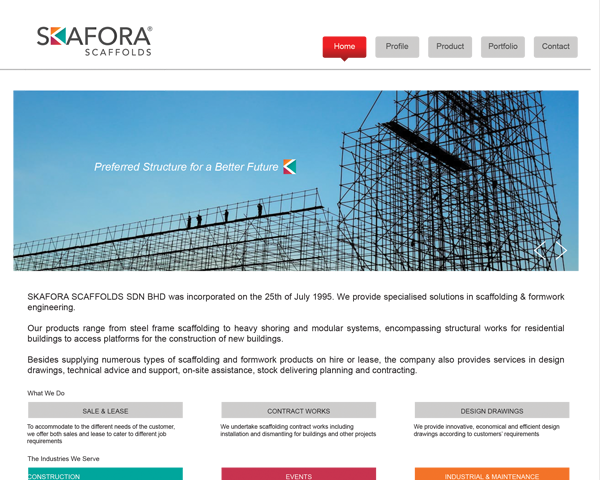
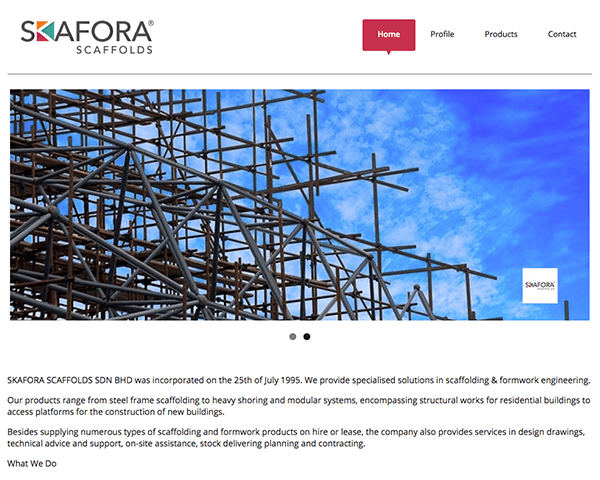
no message

diff --git a/style.css b/style.css
@@ -3,5 +3,5 @@ Theme Name: Skafora
 Theme URI: https://github.com/jrajalu/skafora.git
 Author: Jamaludin Rajalu
 Author URI: https://github.com/jrajalu
-Version: 1.0.0
-*/@font-face{font-family:'Open Sans';font-style:normal;font-weight:300;src:local("Open Sans Light"),local("OpenSans-Light"),url(http://fonts.gstatic.com/s/opensans/v10/DXI1ORHCpsQm3Vp6mXoaTXhCUOGz7vYGh680lGh-uXM.woff) format("woff")}@font-face{font-family:'Open Sans';font-style:normal;font-weight:400;src:local("Open Sans"),local("OpenSans"),url(http://fonts.gstatic.com/s/opensans/v10/cJZKeOuBrn4kERxqtaUH3T8E0i7KZn-EPnyo3HZu7kw.woff) format("woff")}@font-face{font-family:'Open Sans';font-style:normal;font-weight:600;src:local("Open Sans Semibold"),local("OpenSans-Semibold"),url(http://fonts.gstatic.com/s/opensans/v10/MTP_ySUJH_bn48VBG8sNSnhCUOGz7vYGh680lGh-uXM.woff) format("woff")}@font-face{font-family:'Open Sans';font-style:normal;font-weight:700;src:local("Open Sans Bold"),local("OpenSans-Bold"),url(http://fonts.gstatic.com/s/opensans/v10/k3k702ZOKiLJc3WVjuplzHhCUOGz7vYGh680lGh-uXM.woff) format("woff")}@font-face{font-family:'Open Sans';font-style:italic;font-weight:300;src:local("Open Sans Light Italic"),local("OpenSansLight-Italic"),url(http://fonts.gstatic.com/s/opensans/v10/PRmiXeptR36kaC0GEAetxh_xHqYgAV9Bl_ZQbYUxnQU.woff) format("woff")}@font-face{font-family:'Open Sans';font-style:italic;font-weight:400;src:local("Open Sans Italic"),local("OpenSans-Italic"),url(http://fonts.gstatic.com/s/opensans/v10/xjAJXh38I15wypJXxuGMBobN6UDyHWBl620a-IRfuBk.woff) format("woff")}@font-face{font-family:'Open Sans';font-style:italic;font-weight:600;src:local("Open Sans Semibold Italic"),local("OpenSans-SemiboldItalic"),url(http://fonts.gstatic.com/s/opensans/v10/PRmiXeptR36kaC0GEAetxn5HxGBcBvicCpTp6spHfNo.woff) format("woff")}@font-face{font-family:'Open Sans';font-style:italic;font-weight:700;src:local("Open Sans Bold Italic"),local("OpenSans-BoldItalic"),url(http://fonts.gstatic.com/s/opensans/v10/PRmiXeptR36kaC0GEAetxjqR_3kx9_hJXbbyU8S6IN0.woff) format("woff")}/*! normalize.css v3.0.2 | MIT License | git.io/normalize */html{font-family:sans-serif;-ms-text-size-adjust:100%;-webkit-text-size-adjust:100%}body{margin:0}article,aside,details,figcaption,figure,footer,header,hgroup,main,menu,nav,section,summary{display:block}audio,canvas,progress,video{display:inline-block;vertical-align:baseline}audio:not([controls]){display:none;height:0}[hidden],template{display:none}a{background-color:transparent}a:active,a:hover{outline:0}abbr[title]{border-bottom:1px dotted}b,strong{font-weight:bold}dfn{font-style:italic}h1{font-size:2em;margin:0.67em 0}mark{background:#ff0;color:#000}small{font-size:80%}sub,sup{font-size:75%;line-height:0;position:relative;vertical-align:baseline}sup{top:-0.5em}sub{bottom:-0.25em}img{border:0}svg:not(:root){overflow:hidden}figure{margin:1em 40px}hr{-moz-box-sizing:content-box;box-sizing:content-box;height:0}pre{overflow:auto}code,kbd,pre,samp{font-family:monospace, monospace;font-size:1em}button,input,optgroup,select,textarea{color:inherit;font:inherit;margin:0}button{overflow:visible}button,select{text-transform:none}button,html input[type="button"],input[type="reset"],input[type="submit"]{-webkit-appearance:button;cursor:pointer}button[disabled],html input[disabled]{cursor:default}button::-moz-focus-inner,input::-moz-focus-inner{border:0;padding:0}input{line-height:normal}input[type="checkbox"],input[type="radio"]{box-sizing:border-box;padding:0}input[type="number"]::-webkit-inner-spin-button,input[type="number"]::-webkit-outer-spin-button{height:auto}input[type="search"]{-webkit-appearance:textfield;-moz-box-sizing:content-box;-webkit-box-sizing:content-box;box-sizing:content-box}input[type="search"]::-webkit-search-cancel-button,input[type="search"]::-webkit-search-decoration{-webkit-appearance:none}fieldset{border:1px solid #c0c0c0;margin:0 2px;padding:0.35em 0.625em 0.75em}legend{border:0;padding:0}textarea{overflow:auto}optgroup{font-weight:bold}table{border-collapse:collapse;border-spacing:0}td,th{padding:0}.section{clear:both;padding:0px;margin:0px}.col{display:block;float:left;margin:1% 0 1% 3%}.col:first-child{margin-left:0}.group:before,.group:after{content:"";display:table}.group:after{clear:both}.group{zoom:1}.span_6_of_6{width:100%}.span_5_of_6{width:82.83%}.span_4_of_6{width:65.66%}.span_3_of_6{width:48.5%}.span_2_of_6{width:31.33%}.span_1_of_6{width:14.16%}@media only screen and (max-width: 680px){.col{margin:1% 0 1% 0%}.span_1_of_6,.span_2_of_6,.span_3_of_6,.span_4_of_6,.span_5_of_6,.span_6_of_6{width:100%}}#cssmenu,#cssmenu ul,#cssmenu ul li,#cssmenu ul li a,#cssmenu #menu-button{margin:0;padding:0;border:0;list-style:none;line-height:1;display:block;position:relative;-webkit-box-sizing:border-box;-moz-box-sizing:border-box;box-sizing:border-box}#cssmenu:after,#cssmenu>ul:after{content:".";display:block;clear:both;visibility:hidden;line-height:0;height:0}#cssmenu #menu-button{display:none}#cssmenu{width:auto;background:transparent}#cssmenu>ul{margin-top:24px}#cssmenu.align-right>ul>li{float:right}#cssmenu>ul>li{float:right;display:inline-block}#cssmenu.align-center>ul{float:none;text-align:center}#cssmenu.align-center>ul>li{float:none}#cssmenu.align-center ul ul{text-align:left}#cssmenu>ul>li>a{padding:18px 25px 21px 25px;text-decoration:none;font-size:13px;color:#000}#cssmenu>ul>li:hover>a,#cssmenu>ul>li>a:hover,#cssmenu>ul>li.active>a{color:#ffffff;background:#C7324F;border-radius:3px}#cssmenu>ul>li.active::after{content:'▼';color:#C7324F;text-align:center;display:block;margin:auto;margin-top:-5px}#cssmenu>ul>li.has-sub>a{padding-right:45px}#cssmenu>ul>li.has-sub>a::after{content:"";position:absolute;width:0;height:0;border:6px solid transparent;border-top-color:#d3eced;right:17px;top:22px}#cssmenu>ul>li.has-sub.active>a::after,#cssmenu>ul>li.has-sub:hover>a{border-top-color:#ffffff}#cssmenu ul ul{position:absolute;left:-9999px;top:60px;padding-top:6px;font-size:13px;opacity:0;-webkit-transition:top 0.2s ease, opacity 0.2s ease-in;-moz-transition:top 0.2s ease, opacity 0.2s ease-in;-ms-transition:top 0.2s ease, opacity 0.2s ease-in;-o-transition:top 0.2s ease, opacity 0.2s ease-in;transition:top 0.2s ease, opacity 0.2s ease-in}#cssmenu.align-right ul ul{text-align:right}#cssmenu>ul>li>ul::after{content:"";position:absolute;width:0;height:0;border:5px solid transparent;border-bottom-color:#ffffff;top:-4px;left:20px}#cssmenu.align-right>ul>li>ul::after{left:auto;right:20px}#cssmenu ul ul ul::after{content:"";position:absolute;width:0;height:0;border:5px solid transparent;border-right-color:#ffffff;top:11px;left:-4px}#cssmenu.align-right ul ul ul::after{border-right-color:transparent;border-left-color:#ffffff;left:auto;right:-4px}#cssmenu>ul>li>ul{top:120px}#cssmenu>ul>li:hover>ul{top:52px;left:0;opacity:1}#cssmenu.align-right>ul>li:hover>ul{left:auto;right:0}#cssmenu ul ul ul{padding-top:0;padding-left:6px}#cssmenu.align-right ul ul ul{padding-right:6px}#cssmenu ul ul>li:hover>ul{left:180px;top:0;opacity:1}#cssmenu.align-right ul ul>li:hover>ul{left:auto;right:100%;opacity:1}#cssmenu ul ul li a{text-decoration:none;font-weight:400;padding:11px 25px;width:180px;color:#777777;background:#ffffff;box-shadow:0 2px 2px rgba(0,0,0,0.1),1px 1px 1px rgba(0,0,0,0.1),-1px 1px 1px rgba(0,0,0,0.1)}#cssmenu ul ul li:hover>a,#cssmenu ul ul li.active>a{color:#333333}#cssmenu ul ul li:first-child>a{border-top-left-radius:3px;border-top-right-radius:3px}#cssmenu ul ul li:last-child>a{border-bottom-left-radius:3px;border-bottom-right-radius:3px}#cssmenu>ul>li>ul::after{position:absolute;display:block}#cssmenu ul ul li.has-sub>a::after{content:"";position:absolute;width:0;height:0;border:4px solid transparent;border-left-color:#777777;right:17px;top:14px}#cssmenu.align-right ul ul li.has-sub>a::after{border-left-color:transparent;border-right-color:#777777;right:auto;left:17px}#cssmenu ul ul li.has-sub.active>a::after,#cssmenu ul ul li.has-sub:hover>a::after{border-left-color:#333333}#cssmenu.align-right ul ul li.has-sub.active>a::after,#cssmenu.align-right ul ul li.has-sub:hover>a::after{border-right-color:#333333;border-left-color:transparent}@media all and (max-width: 800px), only screen and (-webkit-min-device-pixel-ratio: 2) and (max-width: 1024px), only screen and (min--moz-device-pixel-ratio: 2) and (max-width: 1024px), only screen and (-o-min-device-pixel-ratio: 2 / 1) and (max-width: 1024px), only screen and (min-device-pixel-ratio: 2) and (max-width: 1024px), only screen and (min-resolution: 192dpi) and (max-width: 1024px), only screen and (min-resolution: 2dppx) and (max-width: 1024px){#cssmenu{background:#C7324F}#cssmenu>ul{display:none}#cssmenu>ul.open{display:block;border-top:1px solid rgba(0,0,0,0.1)}#cssmenu.align-right>ul{float:none}#cssmenu.align-center>ul{text-align:left}#cssmenu>ul>li,#cssmenu.align-right>ul>li{float:none;display:block}#cssmenu>ul>li>a{padding:18px 25px 18px 25px;border-right:0;color:#fff}#cssmenu>ul>li:hover>a,#cssmenu>ul>li.active>a{background:rgba(0,0,0,0.1)}#cssmenu>ul>li.active::after{content:""}#cssmenu #menu-button{display:block;text-decoration:none;font-size:13px;font-weight:700;color:#d3eced;padding:18px 25px 18px 25px;text-transform:uppercase;letter-spacing:1px;cursor:pointer}#cssmenu ul ul,#cssmenu ul li:hover>ul,#cssmenu>ul>li>ul,#cssmenu ul ul ul,#cssmenu ul ul li:hover>ul,#cssmenu.align-right ul ul,#cssmenu.align-right ul li:hover>ul,#cssmenu.align-right>ul>li>ul,#cssmenu.align-right ul ul ul,#cssmenu.align-right ul ul li:hover>ul{left:0;right:auto;top:auto;opacity:1;width:100%;padding:0;position:relative;text-align:left}#cssmenu ul ul li{width:100%}#cssmenu ul ul li a{width:100%;box-shadow:none;padding-left:35px}#cssmenu ul ul ul li a{padding-left:45px}#cssmenu ul ul li:first-child>a,#cssmenu ul ul li:last-child>a{border-radius:0}#cssmenu #menu-button::before,#cssmenu #menu-button::after{box-sizing:content-box}#cssmenu #menu-button::after{display:block;content:'';position:absolute;height:3px;width:22px;border-top:2px solid #d3eced;border-bottom:2px solid #d3eced;right:25px;top:18px}#cssmenu #menu-button::before{display:block;content:'';position:absolute;height:3px;width:22px;border-top:2px solid #d3eced;right:25px;top:28px}#cssmenu>ul>li.has-sub>a::after,#cssmenu ul ul li.has-sub>a::after{display:none}}.alignnone{margin:5px 20px 20px 0}.aligncenter,div.aligncenter{display:block;margin:5px auto 5px auto}.alignright{float:right;margin:5px 0 20px 20px}.alignleft{float:left;margin:5px 20px 20px 0}a img.alignright{float:right;margin:5px 0 20px 20px}a img.alignnone{margin:5px 20px 20px 0}a img.alignleft{float:left;margin:5px 20px 20px 0}a img.aligncenter{display:block;margin-left:auto;margin-right:auto}.wp-caption{background:#fff;max-width:96%;padding:5px 3px 10px;text-align:center}.wp-caption.alignnone{margin:5px 20px 20px 0}.wp-caption.alignleft{margin:5px 20px 20px 0}.wp-caption.alignright{margin:5px 0 20px 20px}.wp-caption img{border:0 none;height:auto;margin:0;max-width:98.5%;padding:0;width:auto}.wp-caption p.wp-caption-text{font-size:11px;line-height:17px;margin:0;padding:0 4px 5px}.screen-reader-text{clip:rect(1px, 1px, 1px, 1px);position:absolute !important;height:1px;width:1px;overflow:hidden}.screen-reader-text:hover,.screen-reader-text:active,.screen-reader-text:focus{background-color:#f1f1f1;border-radius:3px;box-shadow:0 0 2px 2px rgba(0,0,0,0.6);clip:auto !important;color:#21759b;display:block;font-size:14px;font-size:0.875rem;font-weight:bold;height:auto;left:5px;line-height:normal;padding:15px 23px 14px;text-decoration:none;top:5px;width:auto;z-index:100000}html{box-sizing:border-box}*,*:before,*:after{box-sizing:inherit}body{font-family:'Open Sans', sans-serif;font-size:14px;color:#121212}h1,h2,h3,h4,h5,h6{font-weight:400}.wrapper{max-width:960px;margin:0 auto}.header{border-bottom:2px solid #B2B2B2;margin-bottom:20px}.article_header img,.article img{max-width:100%;height:auto;display:block}.widget_page .menu .menu-item a,.widget_page .menu .menu-item a:visited{text-decoration:none;color:#00A59B}.widget_page .menu .menu-item a:hover{color:#C7324F}.widget_page_child li a,.widget_page_child li a:visited{text-decoration:none;color:#00A59B}.widget_page_child li a:hover{color:#C7324F}.widget_second_row li h2,.widget_third_row li h2{font-size:14px;text-transform:uppercase}.widget_first_row li h2{display:none}.widget_second_row li h2{padding:5px 10px;font-weight:normal;color:#000;background:#CCCCCB;text-align:center}.widget_third_row li h2{padding:5px 10px;font-weight:normal;color:#fff;text-align:center}.widget_third_row li:nth-child(1) h2{background:#00A59B}.widget_third_row li:nth-child(2) h2{background:#C7324F}.widget_third_row li:nth-child(3) h2{background:#F37328}.widget_footer li h2{display:none}.footer{background:#E5E5E5;margin-top:50px}.footer_logo img{display:block;margin:10px auto}.footer_content{padding:10px;font-size:11px}@media only screen and (max-width: 680px){body{padding:0 10px 5px}iframe{width:100%}img{height:auto}}
+Version: 1.0.1
+*/@font-face{font-family:'Open Sans';font-style:normal;font-weight:300;src:local("Open Sans Light"),local("OpenSans-Light"),url(http://fonts.gstatic.com/s/opensans/v10/DXI1ORHCpsQm3Vp6mXoaTXhCUOGz7vYGh680lGh-uXM.woff) format("woff")}@font-face{font-family:'Open Sans';font-style:normal;font-weight:400;src:local("Open Sans"),local("OpenSans"),url(http://fonts.gstatic.com/s/opensans/v10/cJZKeOuBrn4kERxqtaUH3T8E0i7KZn-EPnyo3HZu7kw.woff) format("woff")}@font-face{font-family:'Open Sans';font-style:normal;font-weight:600;src:local("Open Sans Semibold"),local("OpenSans-Semibold"),url(http://fonts.gstatic.com/s/opensans/v10/MTP_ySUJH_bn48VBG8sNSnhCUOGz7vYGh680lGh-uXM.woff) format("woff")}@font-face{font-family:'Open Sans';font-style:normal;font-weight:700;src:local("Open Sans Bold"),local("OpenSans-Bold"),url(http://fonts.gstatic.com/s/opensans/v10/k3k702ZOKiLJc3WVjuplzHhCUOGz7vYGh680lGh-uXM.woff) format("woff")}@font-face{font-family:'Open Sans';font-style:italic;font-weight:300;src:local("Open Sans Light Italic"),local("OpenSansLight-Italic"),url(http://fonts.gstatic.com/s/opensans/v10/PRmiXeptR36kaC0GEAetxh_xHqYgAV9Bl_ZQbYUxnQU.woff) format("woff")}@font-face{font-family:'Open Sans';font-style:italic;font-weight:400;src:local("Open Sans Italic"),local("OpenSans-Italic"),url(http://fonts.gstatic.com/s/opensans/v10/xjAJXh38I15wypJXxuGMBobN6UDyHWBl620a-IRfuBk.woff) format("woff")}@font-face{font-family:'Open Sans';font-style:italic;font-weight:600;src:local("Open Sans Semibold Italic"),local("OpenSans-SemiboldItalic"),url(http://fonts.gstatic.com/s/opensans/v10/PRmiXeptR36kaC0GEAetxn5HxGBcBvicCpTp6spHfNo.woff) format("woff")}@font-face{font-family:'Open Sans';font-style:italic;font-weight:700;src:local("Open Sans Bold Italic"),local("OpenSans-BoldItalic"),url(http://fonts.gstatic.com/s/opensans/v10/PRmiXeptR36kaC0GEAetxjqR_3kx9_hJXbbyU8S6IN0.woff) format("woff")}/*! normalize.css v3.0.2 | MIT License | git.io/normalize */html{font-family:sans-serif;-ms-text-size-adjust:100%;-webkit-text-size-adjust:100%}body{margin:0}article,aside,details,figcaption,figure,footer,header,hgroup,main,menu,nav,section,summary{display:block}audio,canvas,progress,video{display:inline-block;vertical-align:baseline}audio:not([controls]){display:none;height:0}[hidden],template{display:none}a{background-color:transparent}a:active,a:hover{outline:0}abbr[title]{border-bottom:1px dotted}b,strong{font-weight:bold}dfn{font-style:italic}h1{font-size:2em;margin:0.67em 0}mark{background:#ff0;color:#000}small{font-size:80%}sub,sup{font-size:75%;line-height:0;position:relative;vertical-align:baseline}sup{top:-0.5em}sub{bottom:-0.25em}img{border:0}svg:not(:root){overflow:hidden}figure{margin:1em 40px}hr{-moz-box-sizing:content-box;box-sizing:content-box;height:0}pre{overflow:auto}code,kbd,pre,samp{font-family:monospace, monospace;font-size:1em}button,input,optgroup,select,textarea{color:inherit;font:inherit;margin:0}button{overflow:visible}button,select{text-transform:none}button,html input[type="button"],input[type="reset"],input[type="submit"]{-webkit-appearance:button;cursor:pointer}button[disabled],html input[disabled]{cursor:default}button::-moz-focus-inner,input::-moz-focus-inner{border:0;padding:0}input{line-height:normal}input[type="checkbox"],input[type="radio"]{box-sizing:border-box;padding:0}input[type="number"]::-webkit-inner-spin-button,input[type="number"]::-webkit-outer-spin-button{height:auto}input[type="search"]{-webkit-appearance:textfield;-moz-box-sizing:content-box;-webkit-box-sizing:content-box;box-sizing:content-box}input[type="search"]::-webkit-search-cancel-button,input[type="search"]::-webkit-search-decoration{-webkit-appearance:none}fieldset{border:1px solid #c0c0c0;margin:0 2px;padding:0.35em 0.625em 0.75em}legend{border:0;padding:0}textarea{overflow:auto}optgroup{font-weight:bold}table{border-collapse:collapse;border-spacing:0}td,th{padding:0}.section{clear:both;padding:0px;margin:0px}.col{display:block;float:left;margin:1% 0 1% 3%}.col:first-child{margin-left:0}.group:before,.group:after{content:"";display:table}.group:after{clear:both}.group{zoom:1}.span_6_of_6{width:100%}.span_5_of_6{width:82.83%}.span_4_of_6{width:65.66%}.span_3_of_6{width:48.5%}.span_2_of_6{width:31.33%}.span_1_of_6{width:14.16%}@media only screen and (max-width: 680px){.col{margin:1% 0 1% 0%}.span_1_of_6,.span_2_of_6,.span_3_of_6,.span_4_of_6,.span_5_of_6,.span_6_of_6{width:100%}}#cssmenu,#cssmenu ul,#cssmenu ul li,#cssmenu ul li a,#cssmenu #menu-button{margin:0;padding:0;border:0;list-style:none;line-height:1;display:block;position:relative;-webkit-box-sizing:border-box;-moz-box-sizing:border-box;box-sizing:border-box}#cssmenu ul{float:right}#cssmenu:after,#cssmenu>ul:after{content:".";display:block;clear:both;visibility:hidden;line-height:0;height:0}#cssmenu #menu-button{display:none}#cssmenu{width:auto;background:transparent}#cssmenu>ul{margin-top:24px}#cssmenu.align-right>ul>li{float:right}#cssmenu>ul>li{float:left;display:inline-block}#cssmenu.align-center>ul{float:none;text-align:center}#cssmenu.align-center>ul>li{float:none}#cssmenu.align-center ul ul{text-align:left}#cssmenu>ul>li>a{padding:18px 25px 21px 25px;text-decoration:none;font-size:13px;color:#000}#cssmenu>ul>li:hover>a,#cssmenu>ul>li>a:hover,#cssmenu>ul>li.active>a{color:#ffffff;background:#C7324F;border-radius:3px}#cssmenu>ul>li.active::after{content:'▼';color:#C7324F;text-align:center;display:block;margin:auto;margin-top:-5px}#cssmenu>ul>li.has-sub>a{padding-right:45px}#cssmenu>ul>li.has-sub>a::after{content:"";position:absolute;width:0;height:0;border:6px solid transparent;border-top-color:#d3eced;right:17px;top:22px}#cssmenu>ul>li.has-sub.active>a::after,#cssmenu>ul>li.has-sub:hover>a{border-top-color:#ffffff}#cssmenu ul ul{position:absolute;left:-9999px;top:60px;padding-top:6px;font-size:13px;opacity:0;-webkit-transition:top 0.2s ease, opacity 0.2s ease-in;-moz-transition:top 0.2s ease, opacity 0.2s ease-in;-ms-transition:top 0.2s ease, opacity 0.2s ease-in;-o-transition:top 0.2s ease, opacity 0.2s ease-in;transition:top 0.2s ease, opacity 0.2s ease-in}#cssmenu.align-right ul ul{text-align:right}#cssmenu>ul>li>ul::after{content:"";position:absolute;width:0;height:0;border:5px solid transparent;border-bottom-color:#ffffff;top:-4px;left:20px}#cssmenu.align-right>ul>li>ul::after{left:auto;right:20px}#cssmenu ul ul ul::after{content:"";position:absolute;width:0;height:0;border:5px solid transparent;border-right-color:#ffffff;top:11px;left:-4px}#cssmenu.align-right ul ul ul::after{border-right-color:transparent;border-left-color:#ffffff;left:auto;right:-4px}#cssmenu>ul>li>ul{top:120px}#cssmenu>ul>li:hover>ul{top:52px;left:0;opacity:1}#cssmenu.align-right>ul>li:hover>ul{left:auto;right:0}#cssmenu ul ul ul{padding-top:0;padding-left:6px}#cssmenu.align-right ul ul ul{padding-right:6px}#cssmenu ul ul>li:hover>ul{left:180px;top:0;opacity:1}#cssmenu.align-right ul ul>li:hover>ul{left:auto;right:100%;opacity:1}#cssmenu ul ul li a{text-decoration:none;font-weight:400;padding:11px 25px;width:180px;color:#777777;background:#ffffff;box-shadow:0 2px 2px rgba(0,0,0,0.1),1px 1px 1px rgba(0,0,0,0.1),-1px 1px 1px rgba(0,0,0,0.1)}#cssmenu ul ul li:hover>a,#cssmenu ul ul li.active>a{color:#333333}#cssmenu ul ul li:first-child>a{border-top-left-radius:3px;border-top-right-radius:3px}#cssmenu ul ul li:last-child>a{border-bottom-left-radius:3px;border-bottom-right-radius:3px}#cssmenu>ul>li>ul::after{position:absolute;display:block}#cssmenu ul ul li.has-sub>a::after{content:"";position:absolute;width:0;height:0;border:4px solid transparent;border-left-color:#777777;right:17px;top:14px}#cssmenu.align-right ul ul li.has-sub>a::after{border-left-color:transparent;border-right-color:#777777;right:auto;left:17px}#cssmenu ul ul li.has-sub.active>a::after,#cssmenu ul ul li.has-sub:hover>a::after{border-left-color:#333333}#cssmenu.align-right ul ul li.has-sub.active>a::after,#cssmenu.align-right ul ul li.has-sub:hover>a::after{border-right-color:#333333;border-left-color:transparent}@media all and (max-width: 800px), only screen and (-webkit-min-device-pixel-ratio: 2) and (max-width: 1024px), only screen and (min--moz-device-pixel-ratio: 2) and (max-width: 1024px), only screen and (-o-min-device-pixel-ratio: 2 / 1) and (max-width: 1024px), only screen and (min-device-pixel-ratio: 2) and (max-width: 1024px), only screen and (min-resolution: 192dpi) and (max-width: 1024px), only screen and (min-resolution: 2dppx) and (max-width: 1024px){#cssmenu{background:#C7324F}#cssmenu ul{float:none}#cssmenu>ul{display:none}#cssmenu>ul.open{display:block;border-top:1px solid rgba(0,0,0,0.1)}#cssmenu.align-right>ul{float:none}#cssmenu.align-center>ul{text-align:left}#cssmenu>ul>li,#cssmenu.align-right>ul>li{float:none;display:block}#cssmenu>ul>li>a{padding:18px 25px 18px 25px;border-right:0;color:#fff}#cssmenu>ul>li:hover>a,#cssmenu>ul>li.active>a{background:rgba(0,0,0,0.1)}#cssmenu>ul>li.active::after{content:""}#cssmenu #menu-button{display:block;text-decoration:none;font-size:13px;font-weight:700;color:#d3eced;padding:18px 25px 18px 25px;text-transform:uppercase;letter-spacing:1px;cursor:pointer}#cssmenu ul ul,#cssmenu ul li:hover>ul,#cssmenu>ul>li>ul,#cssmenu ul ul ul,#cssmenu ul ul li:hover>ul,#cssmenu.align-right ul ul,#cssmenu.align-right ul li:hover>ul,#cssmenu.align-right>ul>li>ul,#cssmenu.align-right ul ul ul,#cssmenu.align-right ul ul li:hover>ul{left:0;right:auto;top:auto;opacity:1;width:100%;padding:0;position:relative;text-align:left}#cssmenu ul ul li{width:100%}#cssmenu ul ul li a{width:100%;box-shadow:none;padding-left:35px}#cssmenu ul ul ul li a{padding-left:45px}#cssmenu ul ul li:first-child>a,#cssmenu ul ul li:last-child>a{border-radius:0}#cssmenu #menu-button::before,#cssmenu #menu-button::after{box-sizing:content-box}#cssmenu #menu-button::after{display:block;content:'';position:absolute;height:3px;width:22px;border-top:2px solid #d3eced;border-bottom:2px solid #d3eced;right:25px;top:18px}#cssmenu #menu-button::before{display:block;content:'';position:absolute;height:3px;width:22px;border-top:2px solid #d3eced;right:25px;top:28px}#cssmenu>ul>li.has-sub>a::after,#cssmenu ul ul li.has-sub>a::after{display:none}}.alignnone{margin:5px 20px 20px 0}.aligncenter,div.aligncenter{display:block;margin:5px auto 5px auto}.alignright{float:right;margin:5px 0 20px 20px}.alignleft{float:left;margin:5px 20px 20px 0}a img.alignright{float:right;margin:5px 0 20px 20px}a img.alignnone{margin:5px 20px 20px 0}a img.alignleft{float:left;margin:5px 20px 20px 0}a img.aligncenter{display:block;margin-left:auto;margin-right:auto}.wp-caption{background:#fff;max-width:96%;padding:5px 3px 10px;text-align:center}.wp-caption.alignnone{margin:5px 20px 20px 0}.wp-caption.alignleft{margin:5px 20px 20px 0}.wp-caption.alignright{margin:5px 0 20px 20px}.wp-caption img{border:0 none;height:auto;margin:0;max-width:98.5%;padding:0;width:auto}.wp-caption p.wp-caption-text{font-size:11px;line-height:17px;margin:0;padding:0 4px 5px}.screen-reader-text{clip:rect(1px, 1px, 1px, 1px);position:absolute !important;height:1px;width:1px;overflow:hidden}.screen-reader-text:hover,.screen-reader-text:active,.screen-reader-text:focus{background-color:#f1f1f1;border-radius:3px;box-shadow:0 0 2px 2px rgba(0,0,0,0.6);clip:auto !important;color:#21759b;display:block;font-size:14px;font-size:0.875rem;font-weight:bold;height:auto;left:5px;line-height:normal;padding:15px 23px 14px;text-decoration:none;top:5px;width:auto;z-index:100000}html{box-sizing:border-box}*,*:before,*:after{box-sizing:inherit}body{font-family:'Open Sans', sans-serif;font-size:14px;color:#121212}h1,h2,h3,h4,h5,h6{font-weight:400}.wrapper{max-width:960px;margin:0 auto}.header{border-bottom:2px solid #B2B2B2;margin-bottom:20px}.article_header img,.article img{max-width:100%;height:auto;display:block}.widget_page .menu .menu-item a,.widget_page .menu .menu-item a:visited{text-decoration:none;color:#00A59B}.widget_page .menu .menu-item a:hover{color:#C7324F}.widget_page_child li a,.widget_page_child li a:visited{text-decoration:none;color:#00A59B}.widget_page_child li a:hover{color:#C7324F}.widget_second_row li h2,.widget_third_row li h2{font-size:14px;text-transform:uppercase}.widget_first_row li h2{display:none}.widget_second_row li h2{padding:5px 10px;font-weight:normal;color:#000;background:#CCCCCB;text-align:center}.widget_third_row li h2{padding:5px 10px;font-weight:normal;color:#fff;text-align:center}.widget_third_row li:nth-child(1) h2{background:#00A59B}.widget_third_row li:nth-child(2) h2{background:#C7324F}.widget_third_row li:nth-child(3) h2{background:#F37328}.widget_footer li h2{display:none}.footer{background:#E5E5E5;margin-top:50px}.footer_logo img{display:block;margin:10px auto}.footer_content{padding:10px;font-size:11px}@media only screen and (max-width: 680px){body{padding:0 10px 5px}iframe{width:100%}img{height:auto}}

diff --git a/scss/_cssmenu.scss b/scss/_cssmenu.scss
@@ -14,6 +14,11 @@
   -moz-box-sizing: border-box;
   box-sizing: border-box;
 }
+
+#cssmenu ul {
+  float: right;
+}
+
 #cssmenu:after,
 #cssmenu > ul:after {
   content: ".";
@@ -38,8 +43,7 @@
   float: right;
 }
 #cssmenu > ul > li {
-  //float: left;
-  float: right;
+  float: left;
   display: inline-block;
 }
 #cssmenu.align-center > ul {
@@ -222,6 +226,11 @@
   #cssmenu {
     background: #C7324F;
   }
+
+  #cssmenu ul {
+    float: none;
+  }
+
   #cssmenu > ul {
     display: none;
   }

diff --git a/scss/style.scss b/scss/style.scss
@@ -3,7 +3,7 @@ Theme Name: Skafora
 Theme URI: https://github.com/jrajalu/skafora.git
 Author: Jamaludin Rajalu
 Author URI: https://github.com/jrajalu
-Version: 1.0.0
+Version: 1.0.1
 */
 
 @import "webfonts";
